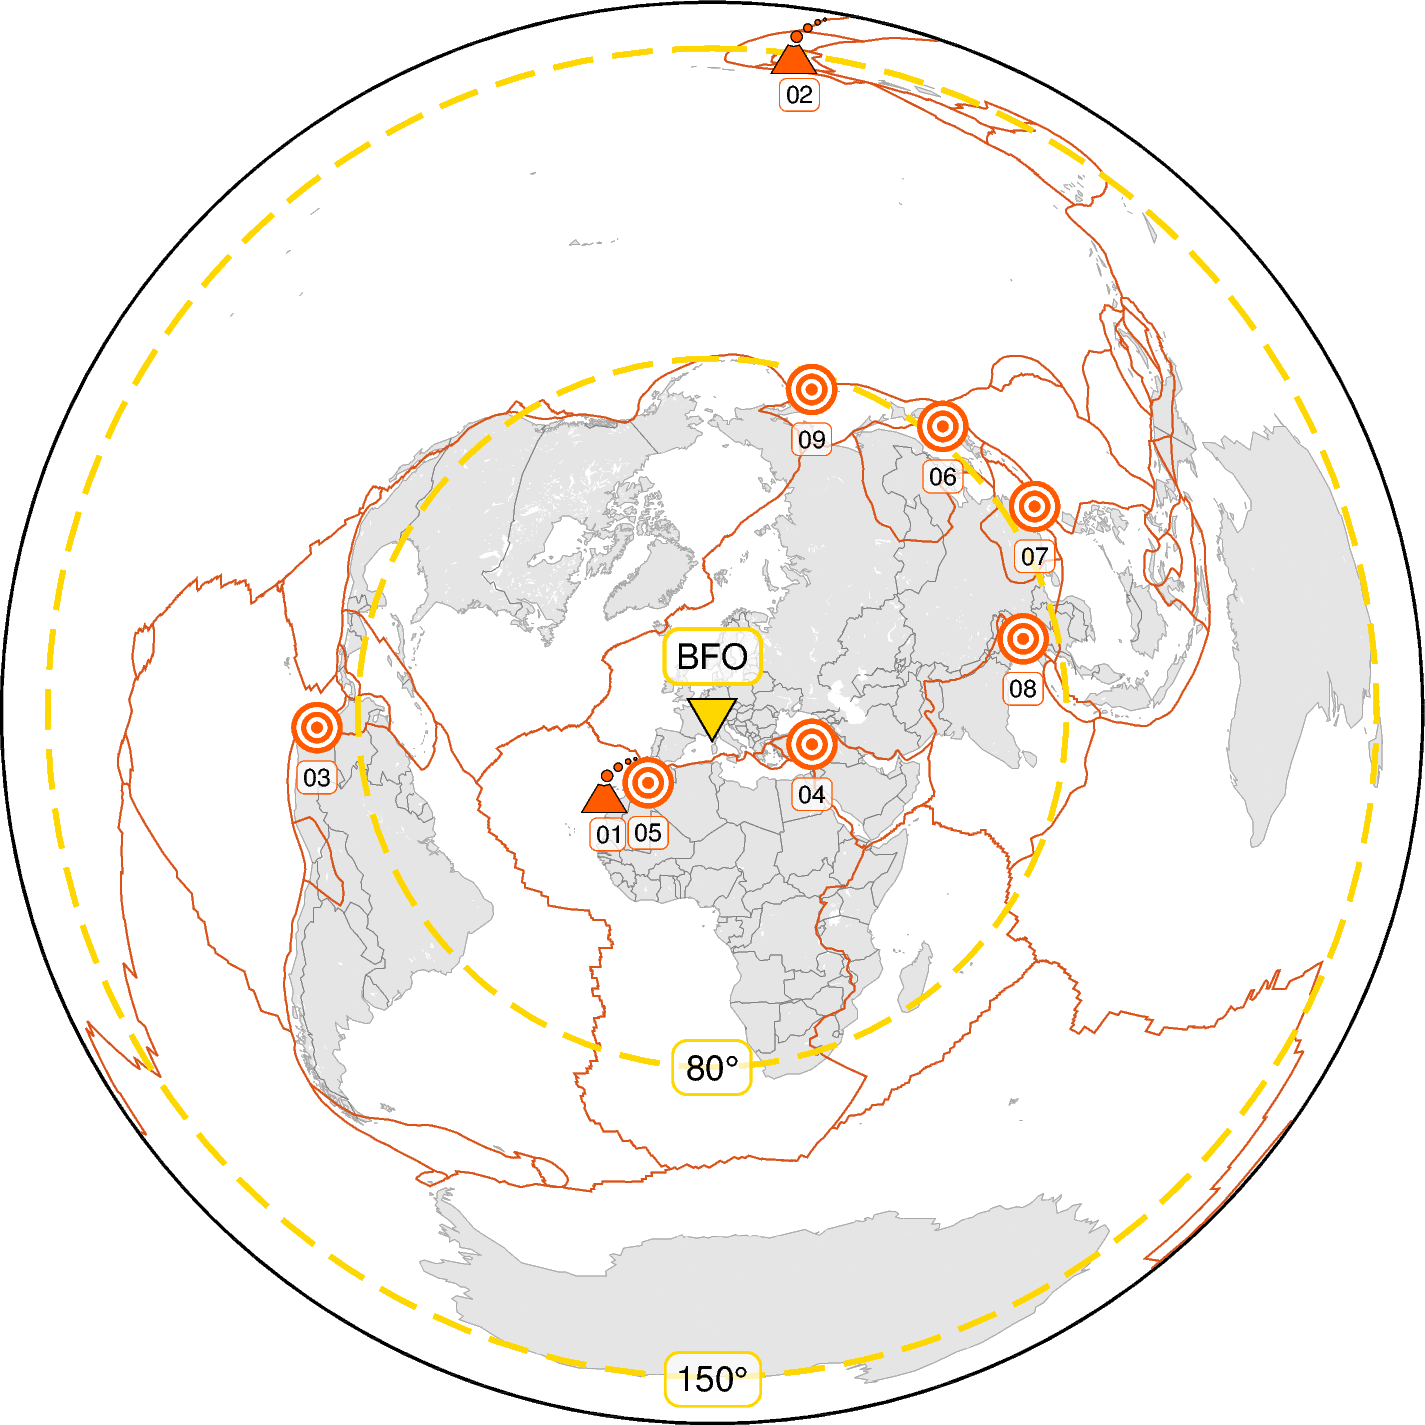
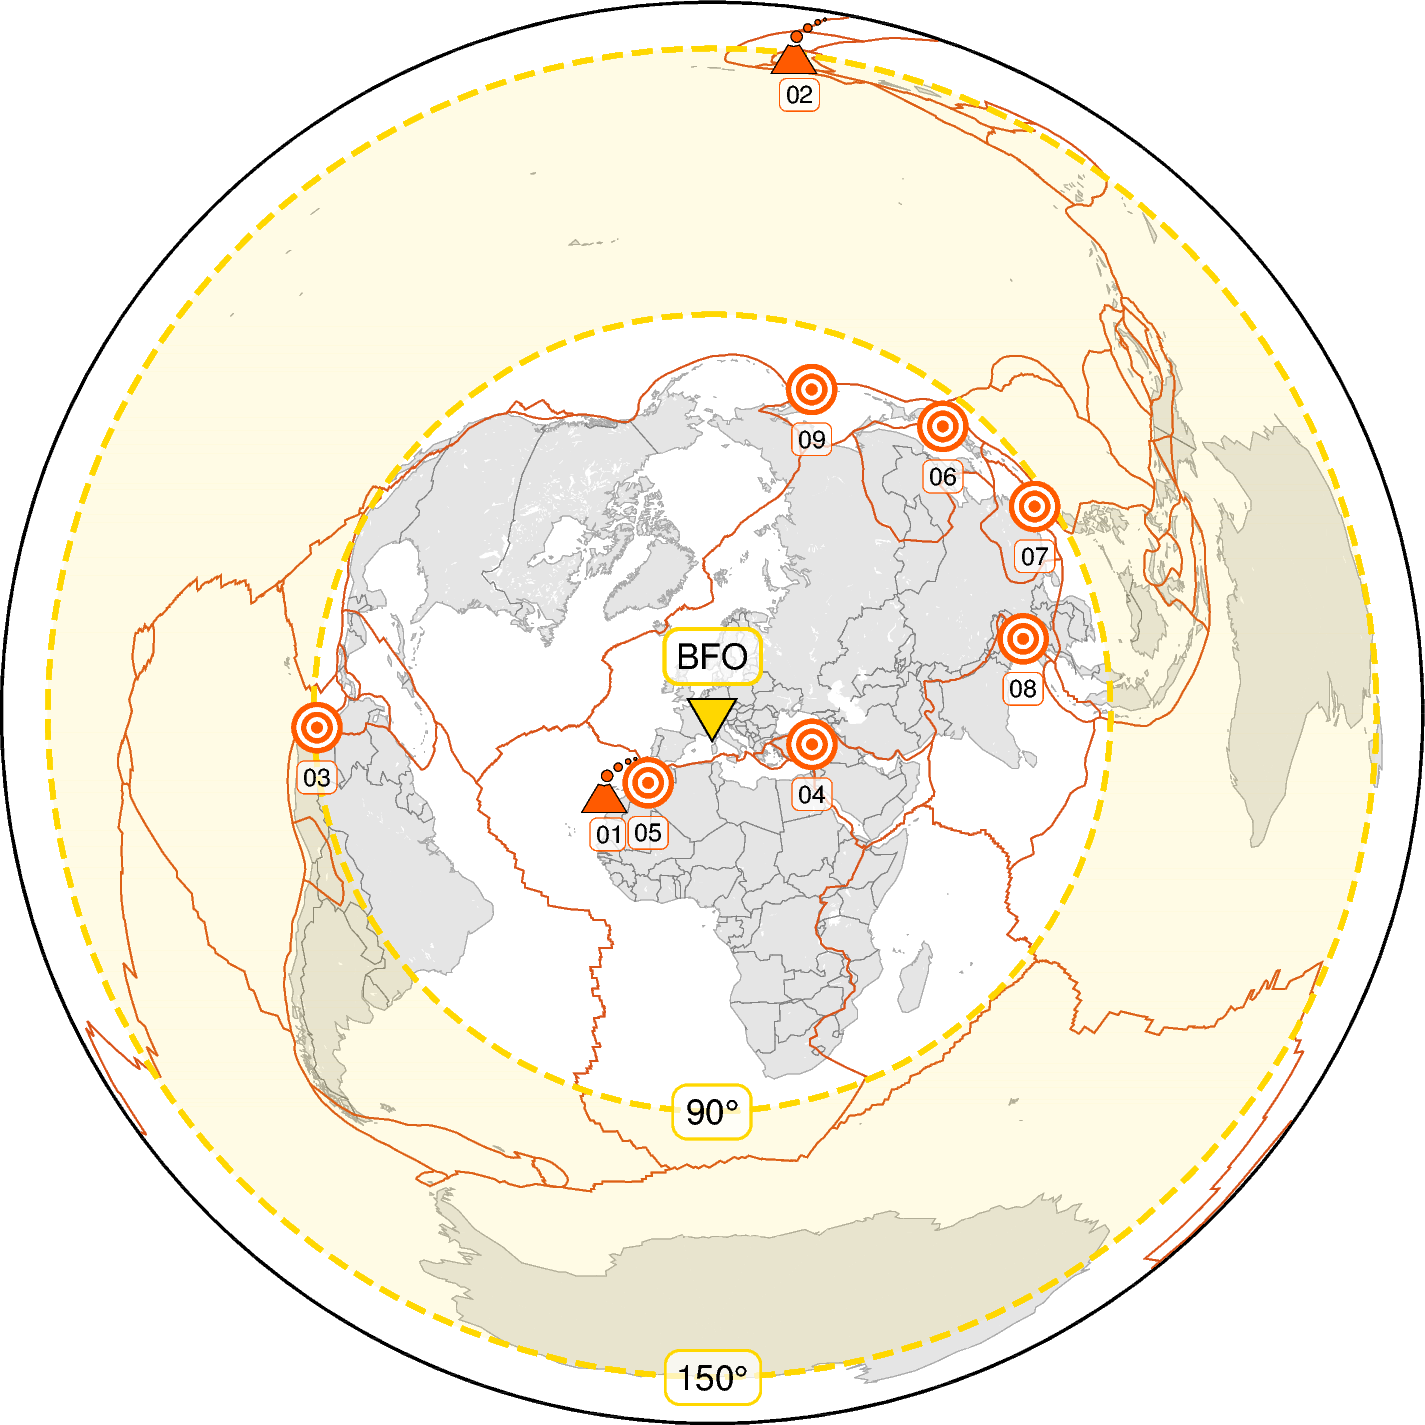
Highlight XKS epicentral distance range

diff --git a/004_earthquakes_eruptions/00_overview_events_BFO.py b/004_earthquakes_eruptions/00_overview_events_BFO.py
@@ -6,6 +6,7 @@
 # - Updated: 2024/04/23 - Improve coding style
 # - Updated: 2025/03/28 - Reorganize folder, rewrite code
 # - Updated: 2025/03/29 - Introduce dictionary for events
+# - Updated: 2025/07/31 - Polish code, highlight XKS epicentral distance range
 # -----------------------------------------------------------------------------
 # Versions
 # - PyGMT v0.14.2 -> https://www.pygmt.org/v0.14.2/ | https://www.pygmt.org/
@@ -36,6 +37,7 @@ path_out = "02_out_figs"
 data_pb = "plate_boundaries_Bird_2003.txt"
 
 # Recording station, here Black Forest Observatory BFO
+name_sta = "BFO"
 lon_sta = 8.33
 lat_sta = 48.33
 
@@ -85,30 +87,34 @@ df_events = pd.DataFrame(
 # -----------------------------------------------------------------------------
 # Colors
 color_sta = "255/215/0"
-color_event = "255/90/0"  # -> orange
+color_hl = "255/90/0"  # -> orange
 color_pd = "216.750/82.875/24.990"  # plate boundaries  # -> dark orange
 color_sl = "darkgray"  # shorelines
+color_nb = "gray50"  # national borders
 color_land = "gray90"
 color_water = "steelblue"
 
 # Standards
 font = "7p"
-clearance_standard = "0.1c/0.1c+tO"
+clearance_standard = "0.1c+tO"
 
 # -----------------------------------------------------------------------------
 # Region and projections
-map_size = 10  # in centimeters
+map_size = 10  # centimeters
 
 # Epicentral distance plot
-epi_min = 80  # degrees
+epi_min = 90  # degrees
 epi_max = 150
+epi_plot = 160
 center_lon = lon_sta
 center_lat = lat_sta
-epi_plot = 160
+center_coord = {"x": center_lon, "y": center_lat}
 
 proj_epi = f"E{center_lon}/{center_lat}/{epi_plot}/{map_size}c"
 proj_rob = f"N{map_size}c"
 proj_used = proj_epi
+
+size2dist = map_size / epi_plot
 
 
 # %%
@@ -119,45 +125,44 @@ fig = gmt.Figure()
 fig.basemap(region="d", projection=proj_used, frame=True)
 
 # Plot shorelines
-fig.coast(land=color_land, shorelines=f"1/0.01p,{color_sl}", borders="1/0.01p,gray50")
+fig.coast(land=color_land, shorelines=f"1/0.1p,{color_sl}", borders=f"1/0.1p,{color_nb}")
 
 # Plot plate boundaries
 fig.plot(data=f"{path_in}/{data_pb}", pen=f"0.3p,{color_pd}")
 
-# Epicentral distance range used in this study
+# -----------------------------------------------------------------------------
+# Epicentral distance range range for XKS phases
+fig.plot(
+    style=f"w{epi_min * size2dist}/0/360+i{epi_max * size2dist}",
+    fill=f"{color_sta}@90",
+    **center_coord,
+)
+
 for epi_limit in [epi_min, epi_max]:
-    if epi_limit == epi_min:
-        offset_station_label = "0c/-2.5c"
-    elif epi_limit == epi_max:
-        offset_station_label = "0c/-4.7c"
 
     # Circles
-    fig.plot(
-        x=center_lon,
-        y=center_lat,
-        style=f"E-{epi_limit * 2}+d",
-        pen=f"1p,{color_sta},-",
-    )
+    fig.plot(style=f"E-{epi_limit * 2}+d", pen=f"1p,{color_sta},4_2", **center_coord)
+
     # Annotations
     fig.text(
-        x=center_lon,
-        y=center_lat,
-        offset=offset_station_label,
         text=f"{epi_limit}@.",  # degree sign in GMT
+        offset=f"0c/-{epi_limit * size2dist / 2}c",
         font=font,
         fill="white@30",
         pen=f"0.5p,{color_sta}",
         clearance=clearance_standard,
+        **center_coord,
     )
 
+# -----------------------------------------------------------------------------
 # Plot epicenters
 df_eqs = df_events[df_events["event_type"] == "earthquake"]
 fig.plot(
     x=df_eqs.lon,
     y=df_eqs.lat,
     style=f"k{path_in}/earthquake.def/0.7c",
-    fill=color_event,
-    pen=color_event,
+    fill=color_hl,
+    pen=color_hl,
 )
 
 # Plot volcanos
@@ -166,25 +171,27 @@ fig.plot(
     x=df_erp.lon,
     y=df_erp.lat,
     style="kvolcano/0.4c",
-    fill=color_event,
+    fill=color_hl,
     pen="0.1p,black",
 )
 
+# -----------------------------------------------------------------------------
 # Plot recording station
-fig.plot(x=center_lon, y=center_lat, style="i0.4c", fill=color_sta, pen="0.3p,black")
+fig.plot(style="i0.4c", fill=color_sta, pen="0.3p,black", **center_coord)
+
 # Add label for recording station
 fig.text(
-    text="BFO",
-    x=center_lon,
-    y=center_lat,
+    text=name_sta,
     justify="MC",
     offset="0c/0.4c",
     font=font,
     fill="white@30",
     pen=f"0.7p,{color_sta}",
     clearance=clearance_standard,
+    **center_coord,
 )
 
+# -----------------------------------------------------------------------------
 # Add labels for event ID
 fig.text(
     text=df_events["event_id"],
@@ -194,17 +201,16 @@ fig.text(
     offset="0c/-0.35c",
     font="5p",
     fill="white@30",
-    pen=f"0.1p,{color_event}",
-    clearance="0.05c/0.05c+tO",
+    pen=f"0.1p,{color_hl}",
+    clearance="0.05c+tO",
 )
 
+# -----------------------------------------------------------------------------
 # Show and save
 fig.show()  # method="external")
-
 # for ext in ["png"]:  # , "pdf", "eps"]:
-#     transparent = False
-#     if ext == "png":
-#         transparent = True
-#     fig.savefig(fname=f"{path_out}/{fig_name}.{ext}", dpi=dpi_png, transparent=transparent)
-
+    # transparent = False
+    # if ext == "png":
+    #     transparent = True
+    # fig.savefig(fname=f"{path_out}/{fig_name}.{ext}", dpi=dpi_png, transparent=transparent)
 print(fig_name)
